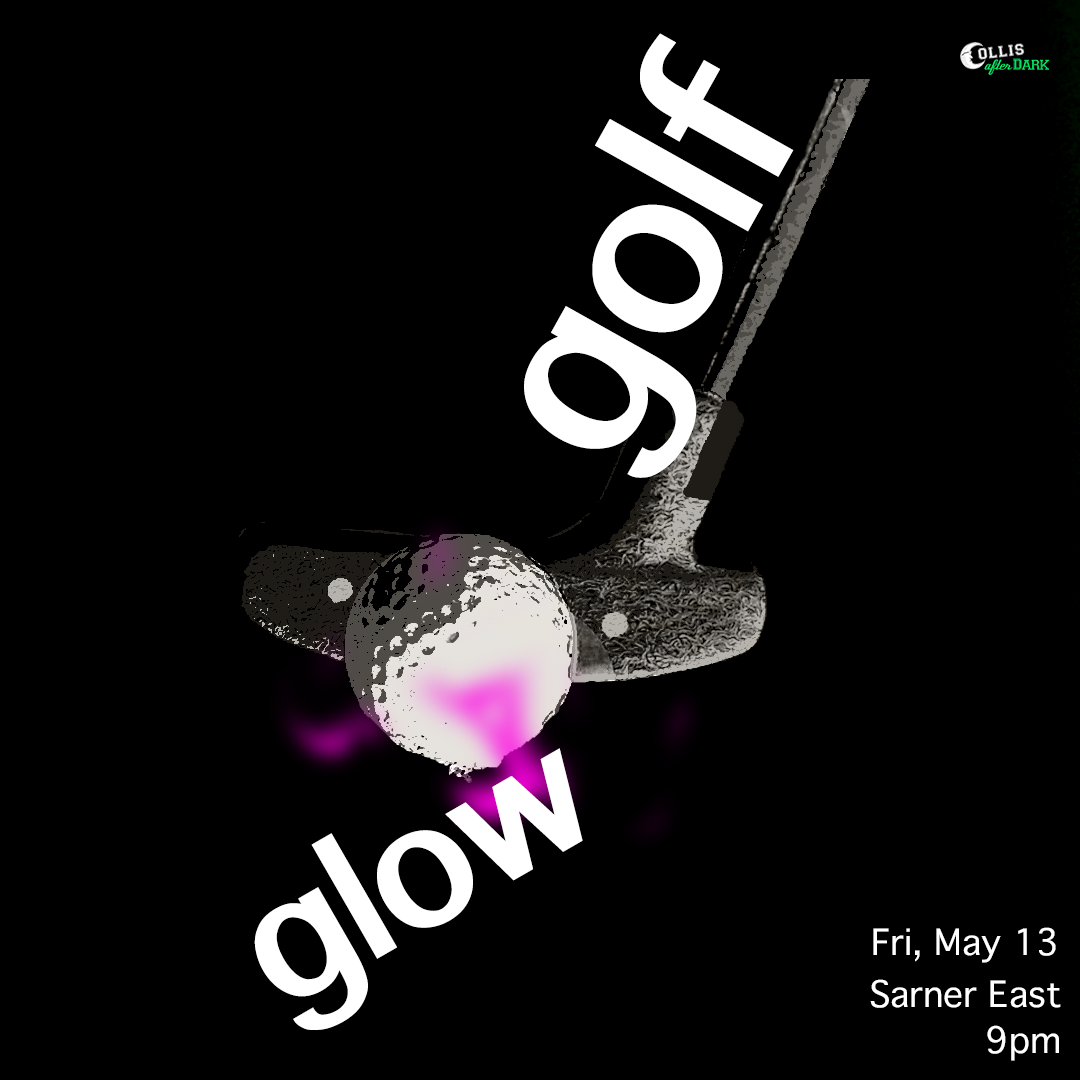
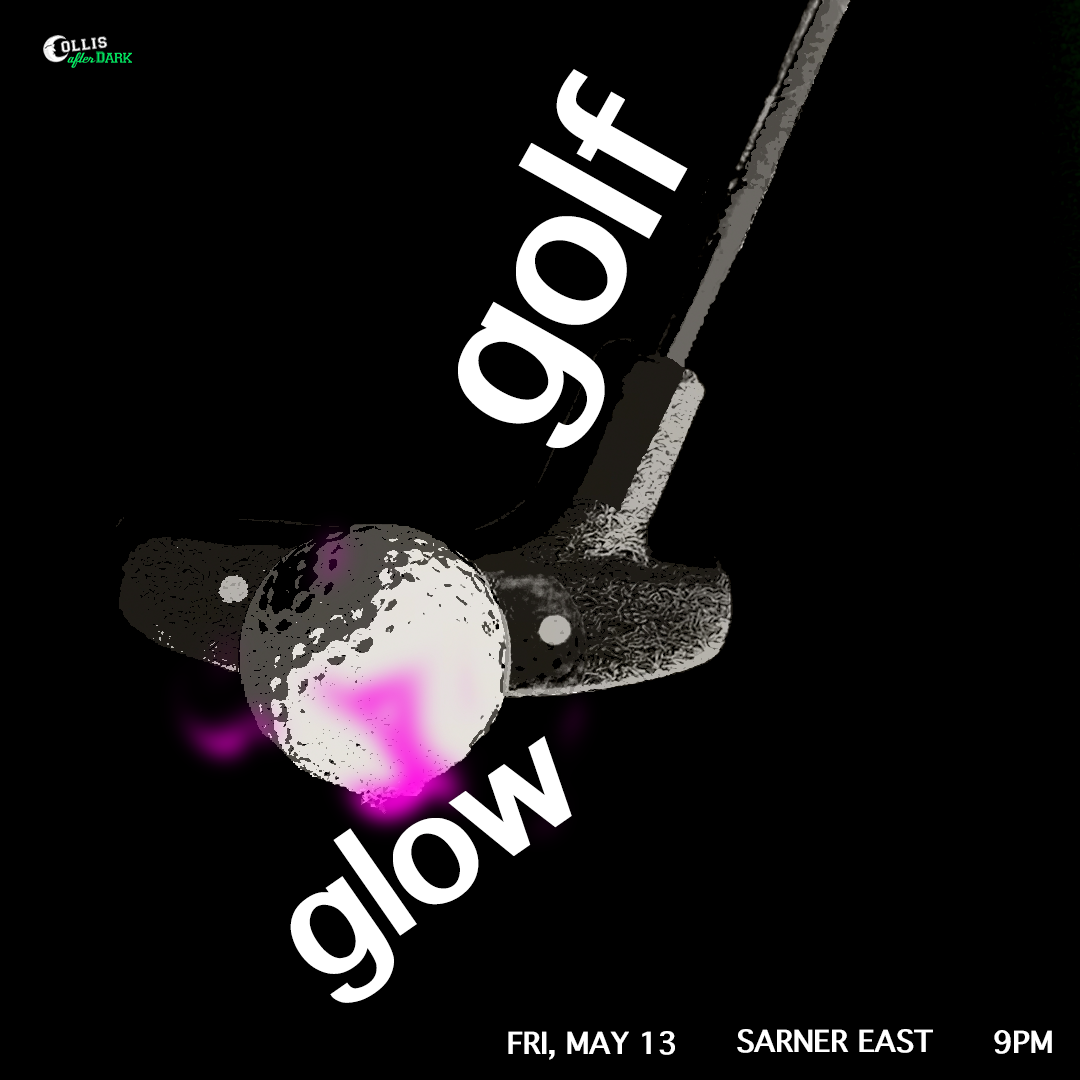
new insta poster

diff --git a/pages/art.html b/pages/art.html
@@ -113,6 +113,15 @@
                     </div>
                     <img src="/imgs/new_glow_golf_poster.png" class="Artimg" alt="Project Image2">
                 </div>
+                <div class="carousel-item">
+                    <div class="carousel-caption">
+                        <h1>Glow golf promotional poster</h1>
+                        <p>2024</p>
+                        <p>Adobe Photoshop | Adobe Illustrator </p>
+
+                    </div>
+                    <img src="/imgs/glowgolf_insta.png" class="Artimg" alt="Project Image2">
+                </div>
             <a class="carousel-control-prev" href="#carouselExampleControls" role="button" data-slide="prev">
                 <i class="fas fa-angle-left carousel-control-prev-icon"></i>
                 <span class="sr-only">Previous</span>
